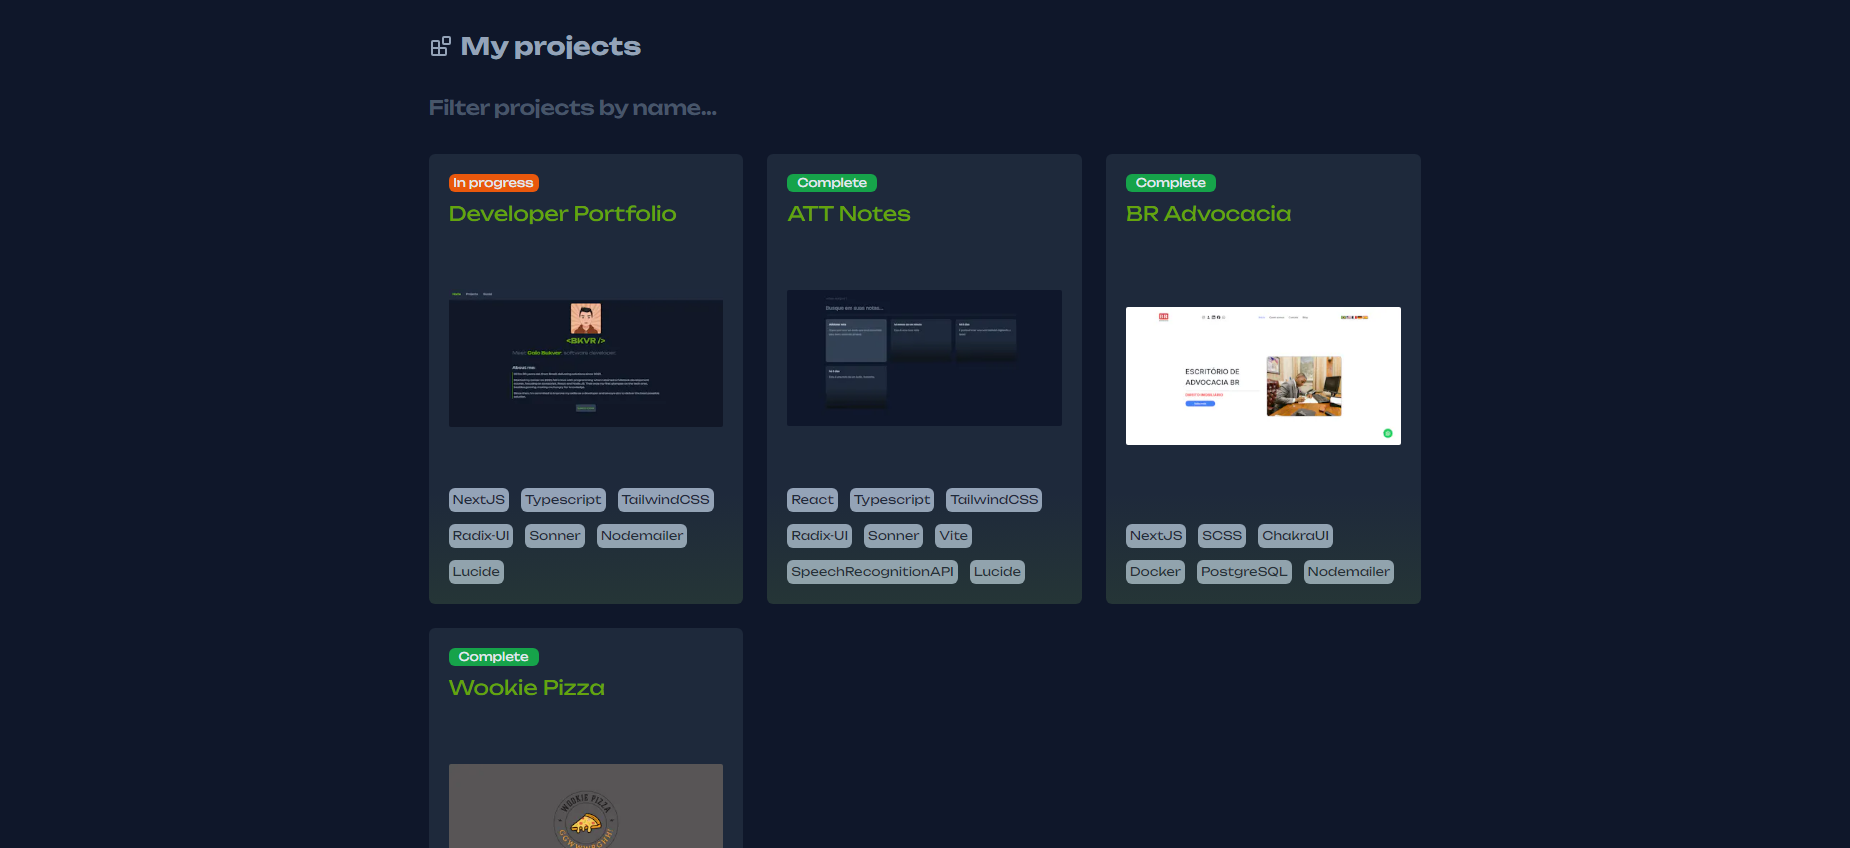
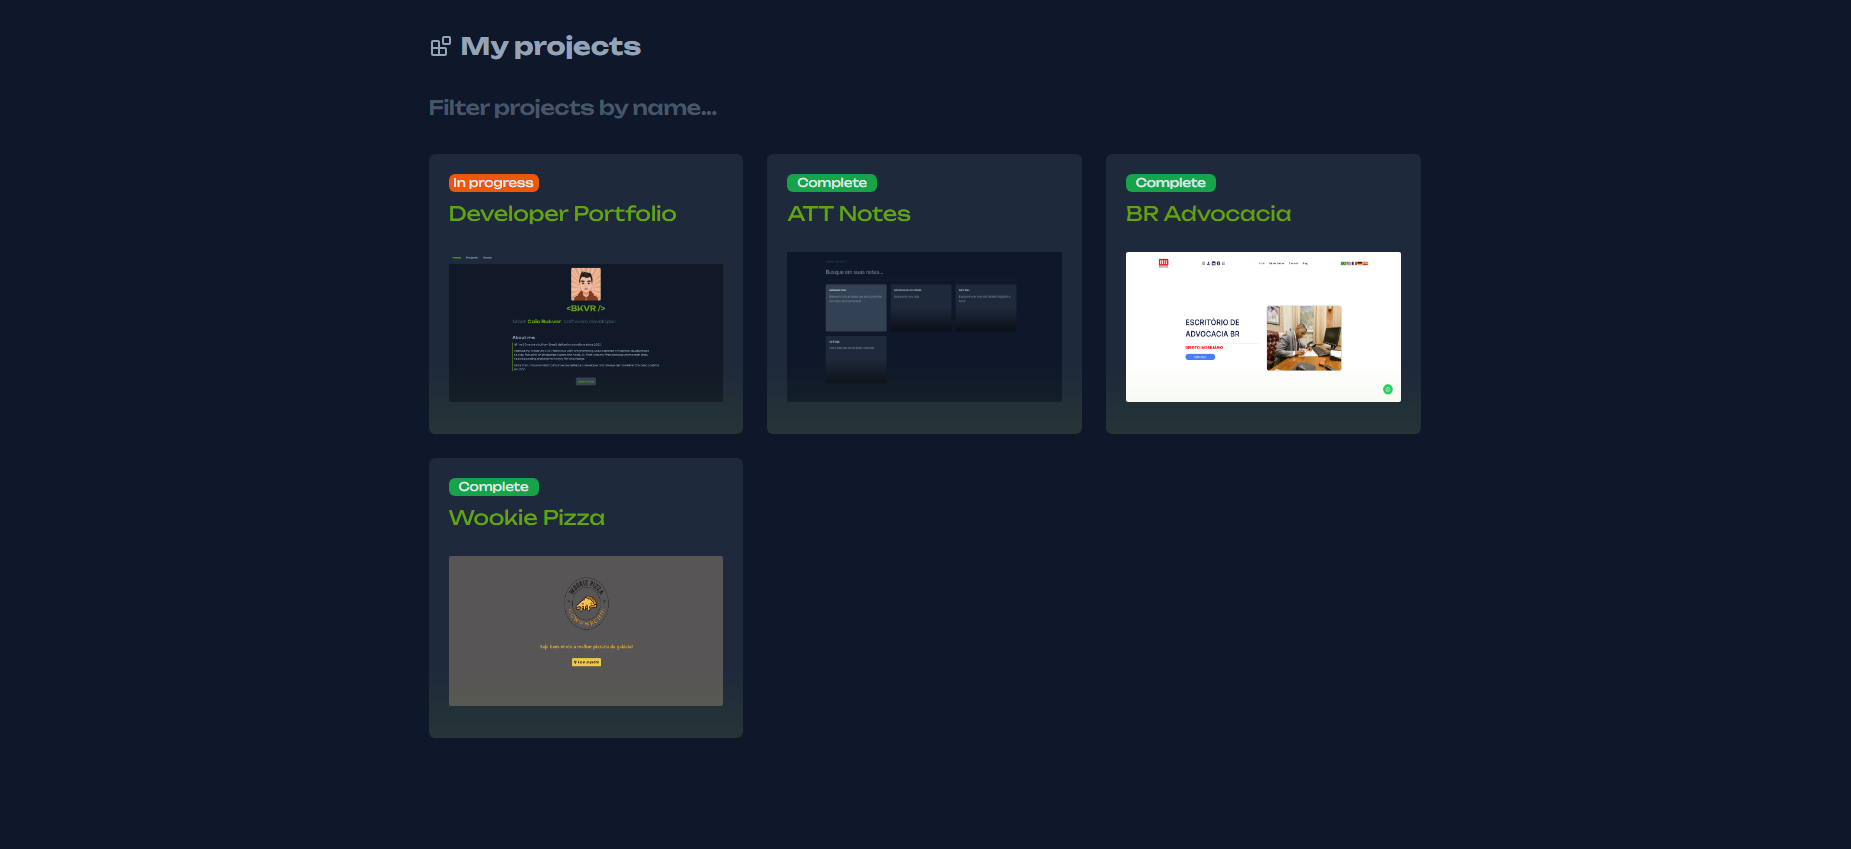
feat: styles

diff --git a/src/app/components/ProjectCard/index.tsx b/src/app/components/ProjectCard/index.tsx
@@ -51,14 +51,19 @@ export default function ProjectCard({ project }: ProjectCardProps) {
 
       <Dialog.Portal>
         <Dialog.Overlay className="fixed inset-0 bg-black/60" />
-        <Dialog.Content className="fixed inset-0 left-1/2 top-1/2 flex h-full max-h-[70vh] w-[90vw] -translate-x-1/2 -translate-y-1/2 flex-col overflow-auto rounded-md bg-slate-800 outline-none md:w-full md:max-w-[640px]">
+        <Dialog.Content
+          className="fixed inset-0 left-1/2 top-1/2 mt-12 flex h-full max-h-[70vh] w-[90vw] -translate-x-1/2
+         -translate-y-1/2 flex-col overflow-auto rounded-md bg-slate-800 outline-none md:w-full md:max-w-[640px]"
+        >
           <Dialog.Close className="absolute right-0 top-0 p-1.5 text-slate-400 hover:text-slate-100">
             <X className="size-5" />
           </Dialog.Close>
 
           <div className="flex h-full min-h-full w-full flex-col gap-5 p-5">
-            <div className="flex items-center gap-10">
-              <p className="text-2xl font-bold text-lime-600">{project.name}</p>
+            <div className="flex items-center gap-5 md:gap-10">
+              <p className="w-1/2 text-xl font-bold text-lime-600 md:w-auto md:text-2xl">
+                {project.name}
+              </p>
               <p
                 className={`rounded-r-md border-l-[2px] border-l-lime-600 p-2 text-sm text-slate-200 ${
                   project.status === "In progress"
@@ -70,22 +75,30 @@ export default function ProjectCard({ project }: ProjectCardProps) {
               </p>
             </div>
 
-            <div className="flex gap-3">
+            <div className="flex gap-6">
               <a
                 href={project.githubURL}
                 target="_blank"
-                className="border-b-[2px] border-b-transparent hover:scale-125 hover:border-b-[2px] hover:border-b-lime-600"
+                className="flex items-center gap-2 border-b-[2px] border-b-transparent
+                hover:scale-105"
               >
                 <Image src={Github} alt="github" width={24} height={24} />
+                <span className="text-xs tracking-tighter text-slate-500">
+                  github repo
+                </span>
               </a>
 
               {project.url && (
                 <a
                   href={project.url}
                   target="_blank"
-                  className="border-b-[2px] border-b-transparent hover:scale-125 hover:border-b-[2px] hover:border-b-lime-600"
+                  className="flex items-center gap-2 border-b-[2px] border-b-transparent
+                  hover:scale-105"
                 >
                   <LinkIcon width={24} height={24} />
+                  <span className="text-xs tracking-tighter text-slate-500 ">
+                    deploy
+                  </span>
                 </a>
               )}
             </div>

diff --git a/src/app/components/ProjectsSummary/index.tsx b/src/app/components/ProjectsSummary/index.tsx
@@ -42,7 +42,7 @@ export default function ProjectsSummary() {
             className=" rounded-md bg-transparent py-2 text-xl font-semibold tracking-tight text-lime-600 outline-none placeholder:text-slate-600"
           />
         </div>
-        <div className="grid auto-rows-[300px] gap-6 sm:grid-cols-1 md:grid-cols-2 lg:grid-cols-3">
+        <div className="grid auto-rows-[280px] gap-6 sm:grid-cols-1 md:grid-cols-2 lg:grid-cols-3">
           {filteredProjects.map((project) => {
             return <ProjectCard project={project} key={project.id} />;
           })}
